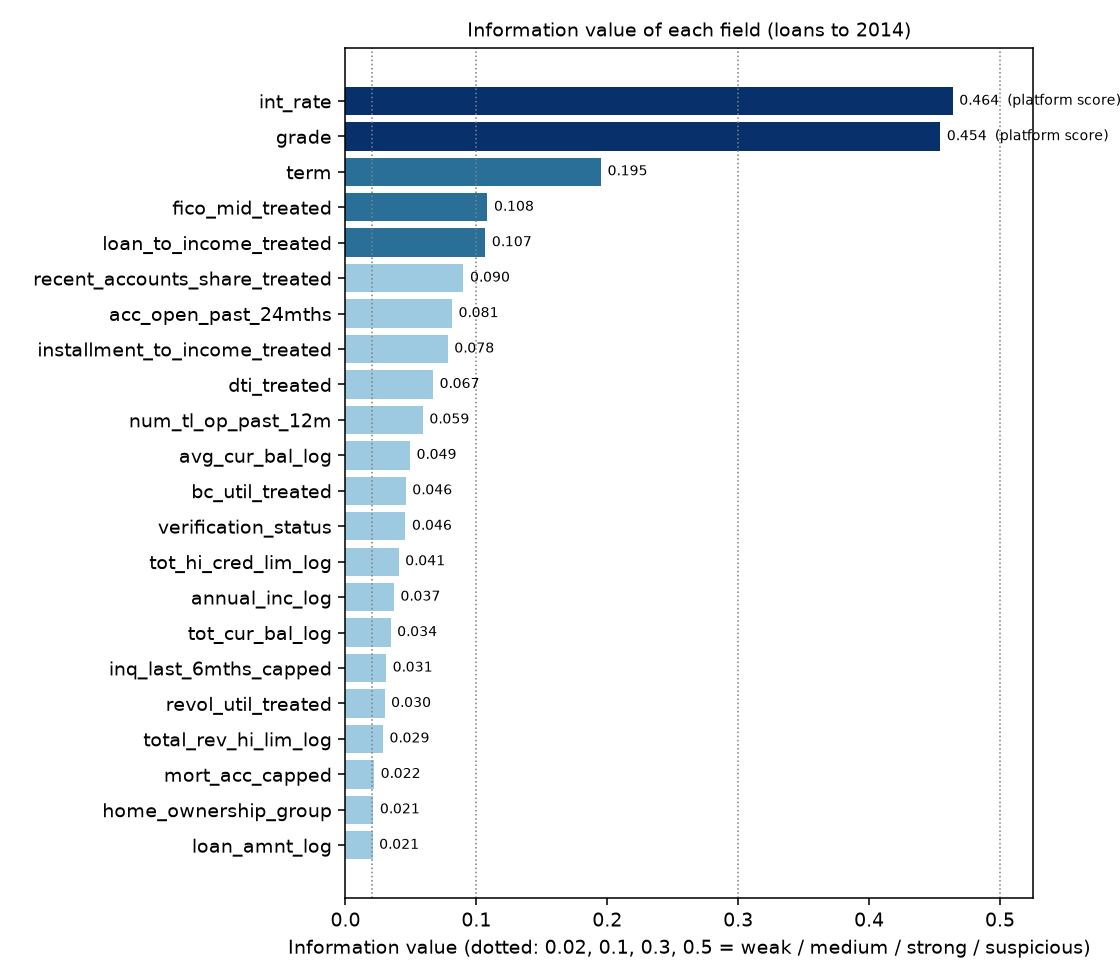
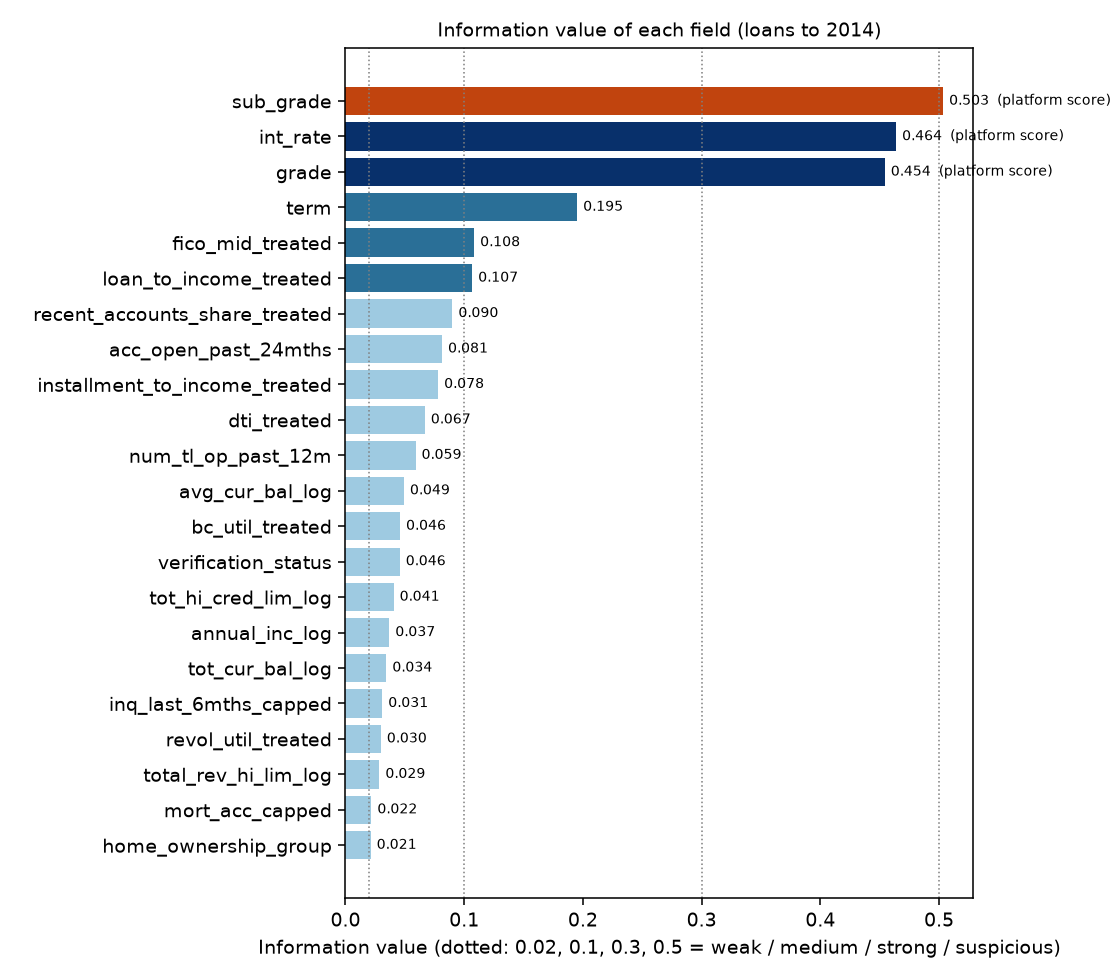
feat: rank sub_grade by information value (0.50, the platform's own score) and comment on it

Changed region(s): [[0.0312, 0.0, 1.0, 0.8878], [0.2188, 0.9184, 0.9688, 0.9796], [0.3438, 0.6429, 0.375, 0.6735]]

diff --git a/scripts/a4_iv_ranking.py b/scripts/a4_iv_ranking.py
@@ -22,7 +22,12 @@ d = ApplicationTransformer().fit(raw).transform(raw)
 NUMERIC, CATEGORICAL = WOE_NUMERIC, WOE_CATEGORICAL
 enc = WoEEncoder(numeric=NUMERIC, categorical=CATEGORICAL).fit(d)
 iv = enc.iv_table()
-role = {"int_rate": "platform score", "grade": "platform score", "job_group": "restricted", "addr_state_group": "restricted"}
+# sub_grade (35 levels) is a platform score like grade; it is ranked here but gets no contract column
+fit_rows = d[d.issue_d <= FIT_CUTOFF]
+sub = information_value(woe_table(fit_rows.sub_grade.astype(str), fit_rows.defaulted))
+iv = pd.concat([iv, pd.DataFrame([{"field": "sub_grade", "kind": "categorical", "bins_or_groups": fit_rows.sub_grade.nunique(),
+                                   "iv": sub, "strength": strength(sub)}])], ignore_index=True).sort_values("iv", ascending=False)
+role = {"int_rate": "platform score", "grade": "platform score", "sub_grade": "platform score", "job_group": "restricted", "addr_state_group": "restricted"}
 iv["role"] = iv.field.map(role).fillna("input")
 iv.round(4).to_csv(TAB / "iv_ranking.csv", index=False)
 

diff --git a/docs/decisions.md b/docs/decisions.md
@@ -280,18 +280,21 @@ other fields.
 
 ## Information value ranking and the "too good to be true" check
 
-`scripts/a4_iv_ranking.py` computes IV on loans to 2014 for 30 numeric and 7 categorical fields (bins and
+`scripts/a4_iv_ranking.py` computes IV on loans to 2014 for 30 numeric and 8 categorical fields (the 8th is `sub_grade`, ranked but not in the contract) (bins and
 groups as decided above). Output: `reports/a4_iv_ranking/`.
 
 | Field | IV | Reading |
 |---|---|---|
+| `sub_grade` | 0.50 | on the 0.5 line: the platform's own score at 35 levels (a ranked scale with 15 monotone bins gives 0.49) |
 | `int_rate`, `grade` | 0.46, 0.45 | strong, close to the 0.5 line: the platform's own score |
 | `term` | 0.20 | medium |
 | `fico_mid`, `loan_to_income` | 0.11, 0.11 | medium: the strongest fields the model builds itself |
 | `recent_accounts_share`, `acc_open_past_24mths`, `installment_to_income`, `dti`, `num_tl_op_past_12m` | 0.06 to 0.09 | weak |
 | most other fields | under 0.05 | weak or useless; 16 of 37 fields are below 0.02 |
 
-**The only IV near the suspicious zone is the platform's own score, and it is not a leak.** `int_rate` has
+**The only IVs near or on the suspicious line are the platform's own score (`sub_grade` 0.50, `int_rate` 0.46, `grade` 0.45), and
+they are not leaks.** Part of `sub_grade`'s edge over `grade` is only that 35 levels give the calculation more room to fit noise.
+`sub_grade` is ranked here but has no contract column. `int_rate` has
 11 bins with a smooth, one-directional pattern, from 3.6% default in the lowest-rate bin (WoE +1.71) to 37.1% in
 the highest (WoE -1.04). It is strong because the platform's existing risk model set it from the same applicant
 data, so it is an echo of a model that already knew these fields. It is known at application time and consistent,
